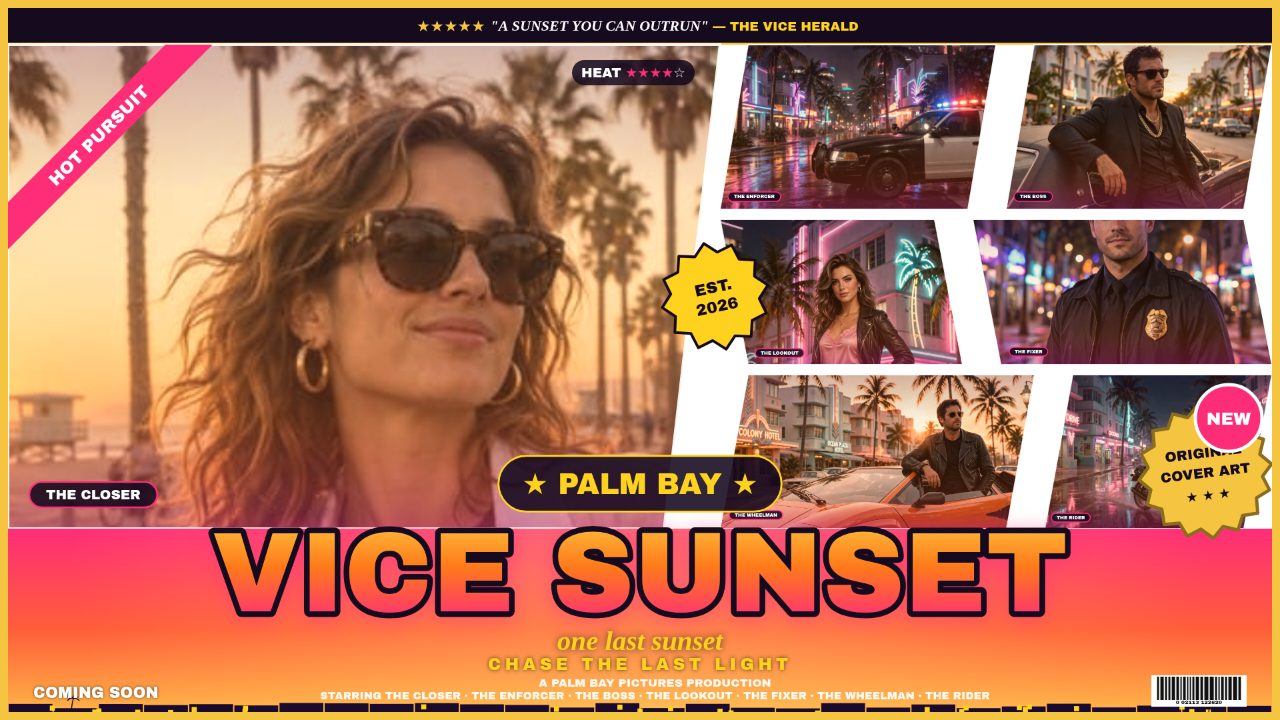
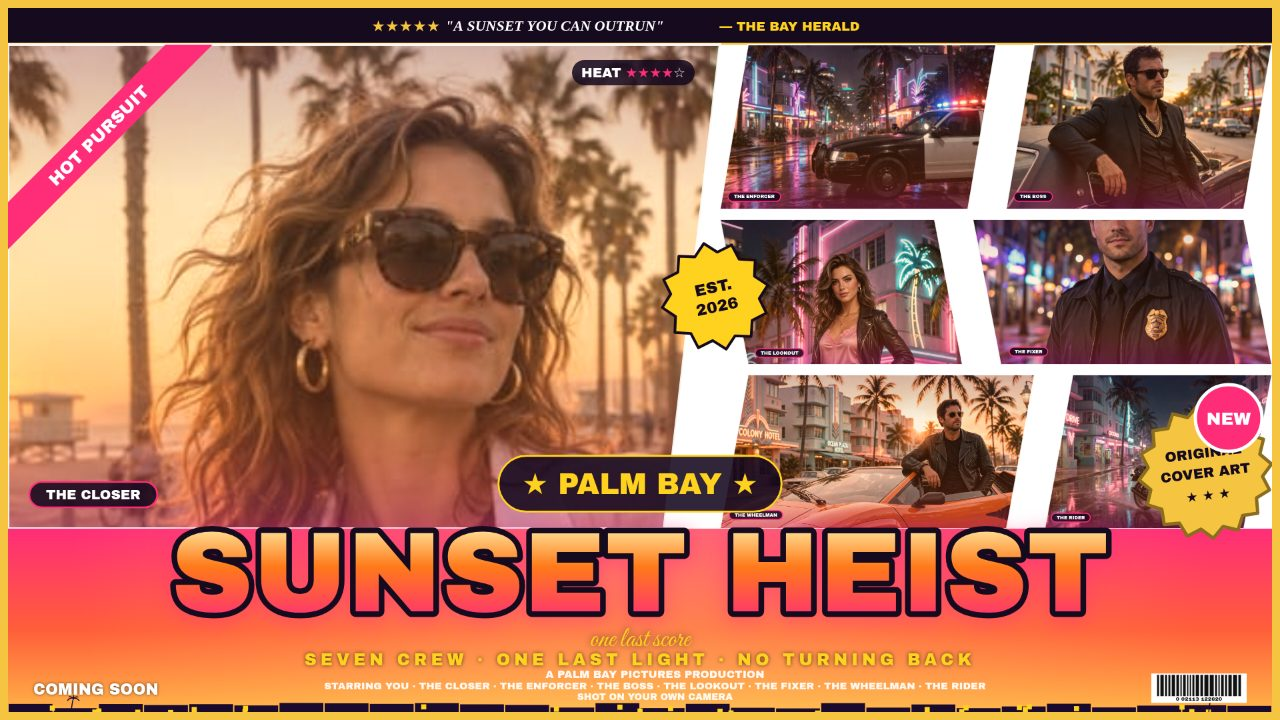
v2 fix: SUNSET HEIST title, script font, STARRING YOU, stronger tagline, billing margin
- Retitle VICE SUNSET -> SUNSET HEIST (caption default + shots 1-2); title
  gradient gains a bright top stop for depth
- Real script font: Great Vibes (OFL) vendored as woff2 under app/fonts/,
  @font-face + document.fonts load before draw; subtitle now 'one last score'
  in a true script face (quote strip keeps readable italic serif)
- Billing STARRING line leads with YOU; new SHOT ON YOUR OWN CAMERA credit
  line; tagline strengthened to SEVEN CREW · ONE LAST LIGHT · NO TURNING
  BACK (fitted so it never overflows); gazette THE VICE HERALD -> THE BAY
  HERALD (quote text unchanged)
- Billing block moved up (3 lines at 0.815/0.875/0.935) so the last line
  clears the bottom edge with margin; barcode repositioned to match

diff --git a/app/src/cover.js b/app/src/cover.js
@@ -17,7 +17,7 @@ export const GRADES = {
     filter: 'sepia(0.20) saturate(1.15)',
     accent: '#ffd21f',
     glow: 'rgba(255,45,120,0.55)',
-    titleStops: [[0, '#ffe14d'], [0.55, '#ff7a1a'], [1, '#ff2d78']],
+    titleStops: [[0, '#ffe14d'], [0.18, '#fff6b0'], [0.55, '#ff7a1a'], [1, '#ff2d78']],
     bannerStops: [[0, '#ff2d78'], [0.55, '#ff5e3a'], [1, '#ffb347']],
     skyline: '#1a0b2e',
   },
@@ -42,9 +42,9 @@ export const GRADES = {
 };
 
 export const DEFAULT_ROLES = ['THE CLOSER', 'THE ENFORCER', 'THE BOSS', 'THE LOOKOUT', 'THE FIXER', 'THE WHEELMAN', 'THE RIDER'];
-export const DEFAULT_SCRIPT_SUB = 'one last sunset';
+export const DEFAULT_SCRIPT_SUB = 'one last score';
 export const DEFAULT_QUOTE = 'A SUNSET YOU CAN OUTRUN';
-export const DEFAULT_GAZETTE = 'THE VICE HERALD';
+export const DEFAULT_GAZETTE = 'THE BAY HERALD';
 
 /** Geometry of the poster for a canvas of w x h. */
 export function posterLayout(w, h) {
@@ -336,8 +336,12 @@ function fitSizeSmall(ctx, text, maxW, startSize, family, floor = 8) {
 }
 
 const DISPLAY = '"Archivo Black", "Arial Black", sans-serif';
-/** Script face for the subtitle and the review quote (italic serif — no script font ships on the box). */
+/** Real script face for the subtitle (Great Vibes, vendored under app/fonts/). */
 function scriptFont(size) {
+  return `400 ${size}px "Great Vibes", Georgia, "Liberation Serif", serif`;
+}
+/** Italic serif for the review quote — a script face is unreadable at strip size. */
+function quoteFont(size) {
   return `italic 700 ${size}px Georgia, "Liberation Serif", "DejaVu Serif", serif`;
 }
 
@@ -361,7 +365,7 @@ function drawQuoteStrip(ctx, L, state, grade, w) {
   for (let i = 0; i < 20; i++) {
     ctx.font = `${starSize}px ${DISPLAY}`;
     const sw = ctx.measureText('★★★★★ ').width;
-    ctx.font = scriptFont(quoteSize);
+    ctx.font = quoteFont(quoteSize);
     const qw = ctx.measureText(`"${quote}"`).width;
     ctx.font = `${gazSize}px ${DISPLAY}`;
     const gw = ctx.measureText(` — ${gazette}`).width;
@@ -381,7 +385,7 @@ function drawQuoteStrip(ctx, L, state, grade, w) {
   ctx.fillText('★★★★★ ', x, cy + starSize * 0.04);
   x += sw;
   ctx.fillStyle = '#ffffff';
-  ctx.font = scriptFont(quoteSize);
+  ctx.font = quoteFont(quoteSize);
   ctx.fillText(`"${quote}"`, x, cy + quoteSize * 0.04);
   x += qw;
   ctx.fillStyle = grade.accent;
@@ -392,7 +396,7 @@ function drawQuoteStrip(ctx, L, state, grade, w) {
 
 function drawTitleBlock(ctx, L, state, grade, w) {
   const cx = L.inner.x + L.inner.w / 2;
-  const title = (state.title || '').trim().toUpperCase() || 'VICE SUNSET';
+  const title = (state.title || '').trim().toUpperCase() || 'SUNSET HEIST';
   const scriptSub = (state.scriptSub || DEFAULT_SCRIPT_SUB).trim();
   const sub = (state.subtitle || '').trim().toUpperCase();
   const badge = (state.badge || '').trim().toUpperCase();
@@ -448,7 +452,7 @@ function drawTitleBlock(ctx, L, state, grade, w) {
     ctx.restore();
   }
 
-  // Script subtitle: italic serif under the title, kept in the case it was written.
+  // Script subtitle: the real script face under the title, kept in the case it was written.
   if (scriptSub) {
     const scSize = Math.max(14, Math.round(L.banner.h * 0.15));
     ctx.save();
@@ -458,22 +462,29 @@ function drawTitleBlock(ctx, L, state, grade, w) {
     ctx.shadowColor = 'rgba(0,0,0,0.65)';
     ctx.shadowBlur = scSize * 0.25;
     ctx.fillStyle = grade.accent;
-    ctx.fillText(scriptSub, cx, L.collageBottom + L.banner.h * 0.66);
+    ctx.fillText(scriptSub, cx, L.collageBottom + L.banner.h * 0.64);
     ctx.restore();
   }
 
-  // Tagline: spaced capitals below the script subtitle, inside the banner.
+  // Tagline: spaced capitals below the script subtitle, inside the banner. Fitted so
+  // a long tagline never runs past the frame at any export size.
   if (sub) {
-    const subSize = Math.max(12, Math.round(L.banner.h * 0.09));
+    const maxSubW = L.inner.w * 0.96;
+    let subSize = Math.max(12, Math.round(L.banner.h * 0.09));
     ctx.save();
-    ctx.font = `${subSize}px ${DISPLAY}`;
     try { ctx.letterSpacing = `${Math.round(subSize * 0.25)}px`; } catch { /* older canvas */ }
+    ctx.font = `${subSize}px ${DISPLAY}`;
+    while (ctx.measureText(sub).width > maxSubW && subSize > 8) {
+      subSize -= 1;
+      try { ctx.letterSpacing = `${Math.round(subSize * 0.25)}px`; } catch { /* older canvas */ }
+      ctx.font = `${subSize}px ${DISPLAY}`;
+    }
     ctx.textAlign = 'center';
     ctx.textBaseline = 'alphabetic';
     ctx.shadowColor = 'rgba(0,0,0,0.65)';
     ctx.shadowBlur = subSize * 0.25;
     ctx.fillStyle = grade.accent;
-    ctx.fillText(sub, cx, L.collageBottom + L.banner.h * 0.77);
+    ctx.fillText(sub, cx, L.collageBottom + L.banner.h * 0.745);
     try { ctx.letterSpacing = '0px'; } catch { /* older canvas */ }
     ctx.restore();
   }
@@ -503,18 +514,22 @@ function drawBarcode(ctx, x, y, bw, bh) {
   ctx.restore();
 }
 
-/** Billing block: COMING SOON left, production credit + STARRING cast centred, barcode right. */
+/** Billing block: COMING SOON left, production credit + STARRING cast (led by YOU) + a
+ * SHOT ON YOUR OWN CAMERA credit centred, barcode right. Three lines, kept high
+ * enough in the banner that the last line clears the bottom edge with margin. */
 function drawBilling(ctx, L, state, grade, w) {
   const b = L.banner;
   const roles = (state.roles && state.roles.length === 7 ? state.roles : DEFAULT_ROLES)
     .map((r) => (r || '').trim().toUpperCase()).filter(Boolean);
   const line1 = 'A PALM BAY PICTURES PRODUCTION';
-  const line2 = roles.length ? `STARRING ${roles.join(' · ')}` : '';
-  const y1 = L.collageBottom + b.h * 0.86;
-  const y2 = L.collageBottom + b.h * 0.93;
+  const line2 = roles.length ? `STARRING YOU · ${roles.join(' · ')}` : '';
+  const line3 = 'SHOT ON YOUR OWN CAMERA';
+  const y1 = L.collageBottom + b.h * 0.815;
+  const y2 = L.collageBottom + b.h * 0.875;
+  const y3 = L.collageBottom + b.h * 0.935;
   const sidePad = Math.round(b.w * 0.02);
 
-  // COMING SOON, left, vertically centred on the two billing lines.
+  // COMING SOON, left, vertically centred on the three billing lines.
   ctx.save();
   const soonSize = Math.max(11, Math.round(b.h * 0.085));
   ctx.font = `${soonSize}px ${DISPLAY}`;
@@ -525,14 +540,14 @@ function drawBilling(ctx, L, state, grade, w) {
   ctx.textBaseline = 'middle';
   ctx.shadowColor = 'rgba(0,0,0,0.6)';
   ctx.shadowBlur = soonSize * 0.2;
-  ctx.fillText('COMING SOON', soonX, (y1 + y2) / 2 + soonSize * 0.04);
+  ctx.fillText('COMING SOON', soonX, (y1 + y3) / 2 + soonSize * 0.04);
   ctx.restore();
 
   // Barcode, right.
   const barW = Math.round(b.h * 0.52);
-  const barH = Math.round(b.h * 0.17);
+  const barH = Math.round(b.h * 0.16);
   const barX = b.x + b.w - sidePad - barW;
-  const barY = L.collageBottom + b.h * 0.80;
+  const barY = L.collageBottom + b.h * 0.79;
   drawBarcode(ctx, barX, barY, barW, barH);
 
   // Billing lines, centred in the space between COMING SOON and the barcode, with a
@@ -543,14 +558,17 @@ function drawBilling(ctx, L, state, grade, w) {
   ctx.textAlign = 'center';
   ctx.textBaseline = 'alphabetic';
   ctx.fillStyle = 'rgba(255,255,255,0.92)';
-  const s1 = fitSizeSmall(ctx, line1, maxW, Math.max(10, Math.round(b.h * 0.062)), DISPLAY);
+  const s1 = fitSizeSmall(ctx, line1, maxW, Math.max(10, Math.round(b.h * 0.058)), DISPLAY);
   ctx.font = `${s1}px ${DISPLAY}`;
   ctx.fillText(line1, cx, y1);
   if (line2) {
-    const s2 = fitSizeSmall(ctx, line2, maxW, Math.max(10, Math.round(b.h * 0.058)), DISPLAY);
+    const s2 = fitSizeSmall(ctx, line2, maxW, Math.max(10, Math.round(b.h * 0.054)), DISPLAY);
     ctx.font = `${s2}px ${DISPLAY}`;
     ctx.fillText(line2, cx, y2);
   }
+  const s3 = fitSizeSmall(ctx, line3, maxW, Math.max(10, Math.round(b.h * 0.052)), DISPLAY);
+  ctx.font = `${s3}px ${DISPLAY}`;
+  ctx.fillText(line3, cx, y3);
   ctx.restore();
 }
 

diff --git a/app/src/shots.js b/app/src/shots.js
@@ -7,11 +7,13 @@ import { DEFAULT_ROLES, DEFAULT_SCRIPT_SUB, DEFAULT_QUOTE, DEFAULT_GAZETTE } fro
 
 export async function runShot(shot, query, setup) {
   if (shot === 'cover') document.body.classList.add('shot-cover');
-  // Load the display font BEFORE the scene renders: the title is fitted with
-  // measureText, and measuring with the fallback font would let the real (wider)
-  // Archivo Black overflow the canvas.
+  // Load the display and script fonts BEFORE the scene renders: the title is fitted
+  // with measureText, and measuring with the fallback font would let the real (wider)
+  // Archivo Black overflow the canvas; the script subtitle needs Great Vibes loaded
+  // or it falls back to the serif face.
   try {
     await document.fonts.load('16px "Archivo Black"');
+    await document.fonts.load('16px "Great Vibes"');
     await document.fonts.ready;
   } catch { /* fall back to whatever font is available */ }
   const scene = {
@@ -22,9 +24,9 @@ export async function runShot(shot, query, setup) {
     v4: query.get('v4') ?? 'policeofficer',
     v5: query.get('v5') ?? 'wheelman',
     v6: query.get('v6') ?? 'rider',
-    title: query.get('caption') ?? 'VICE SUNSET',
+    title: query.get('caption') ?? 'SUNSET HEIST',
     scriptSub: query.get('script') ?? DEFAULT_SCRIPT_SUB,
-    subtitle: query.get('sub') ?? 'CHASE THE LAST LIGHT',
+    subtitle: query.get('sub') ?? 'SEVEN CREW · ONE LAST LIGHT · NO TURNING BACK',
     badge: query.get('badge') ?? 'PALM BAY',
     quote: query.get('quote') ?? DEFAULT_QUOTE,
     gazette: query.get('gazette') ?? DEFAULT_GAZETTE,

diff --git a/main.ts b/main.ts
@@ -23,12 +23,14 @@ const here = fileURLToPath(new URL('.', import.meta.url));
 const out = process.env.MAKEFUN_OUTPUT_DIR ?? '/output';
 
 // Validate before copying: the dossier is only as good as the files it ships. Check the inputs the judge
-// actually reads — the cover module, every sample photo the seven panels load (v2: the wheelman and the
-// rider replaced the person-less sportscar panel and the duplicate neon-street panel), and every screenshot
-// shots.json names — and stop with the missing item's name instead of handing in a broken build.
+// actually reads — the cover module, the vendored script font (Great Vibes, OFL, for the subtitle),
+// every sample photo the seven panels load (v2: the wheelman and the rider replaced the person-less
+// sportscar panel and the duplicate neon-street panel), and every screenshot shots.json names — and stop
+// with the missing item's name instead of handing in a broken build.
 const panelPhotos = ['boulevard', 'policecar', 'gangster', 'jablay', 'policeofficer', 'wheelman', 'rider'];
 const required = [
   join(here, 'app', 'src', 'cover.js'),
+  join(here, 'app', 'fonts', 'GreatVibes-Regular.woff2'),
   ...panelPhotos.map((name) => join(here, 'app', 'samples', `${name}.jpg`)),
 ];
 for (const shot of JSON.parse(readFileSync(join(here, 'shots.json'), 'utf8'))) {

diff --git a/app/index.html b/app/index.html
@@ -44,12 +44,12 @@
 
     <fieldset>
       <legend>Lettering</legend>
-      <label>Title <input id="title" type="text" maxlength="24" value="VICE SUNSET"></label>
-      <label>Script subtitle <input id="scriptsub" type="text" maxlength="48" value="one last sunset"></label>
-      <label>Tagline <input id="subtitle" type="text" maxlength="48" value="CHASE THE LAST LIGHT"></label>
+      <label>Title <input id="title" type="text" maxlength="24" value="SUNSET HEIST"></label>
+      <label>Script subtitle <input id="scriptsub" type="text" maxlength="48" value="one last score"></label>
+      <label>Tagline <input id="subtitle" type="text" maxlength="48" value="SEVEN CREW · ONE LAST LIGHT · NO TURNING BACK"></label>
       <label>Location badge <input id="badge" type="text" maxlength="20" value="PALM BAY"></label>
       <label>Review quote <input id="quote" type="text" maxlength="64" value="A SUNSET YOU CAN OUTRUN"></label>
-      <label>Gazette <input id="gazette" type="text" maxlength="32" value="THE VICE HERALD"></label>
+      <label>Gazette <input id="gazette" type="text" maxlength="32" value="THE BAY HERALD"></label>
     </fieldset>
 
     <fieldset>

diff --git a/app/src/main.js b/app/src/main.js
@@ -214,9 +214,11 @@ canvas.addEventListener('pointermove', (e) => {
 });
 canvas.addEventListener('pointerup', () => { drag = null; });
 
-// Redraw once the display font arrives so the title uses Archivo Black.
+// Redraw once the display and script fonts arrive so the title uses Archivo Black
+// and the subtitle uses Great Vibes.
 if (document.fonts) {
   document.fonts.load('16px "Archivo Black"').then(render).catch(() => {});
+  document.fonts.load('16px "Great Vibes"').then(render).catch(() => {});
   document.fonts.ready.then(render).catch(() => {});
 }
 

diff --git a/app/style.css b/app/style.css
@@ -6,6 +6,14 @@
   font-display: swap;
 }
 
+@font-face {
+  font-family: "Great Vibes";
+  src: url("./fonts/GreatVibes-Regular.woff2") format("woff2");
+  font-weight: 400;
+  font-style: normal;
+  font-display: swap;
+}
+
 html, body { margin: 0; min-height: 100%; background: #14081f; color: #f5f0ff; font: 15px/1.45 system-ui, sans-serif; }
 .app { display: flex; gap: 28px; align-items: flex-start; justify-content: center; padding: 24px; box-sizing: border-box; }
 
